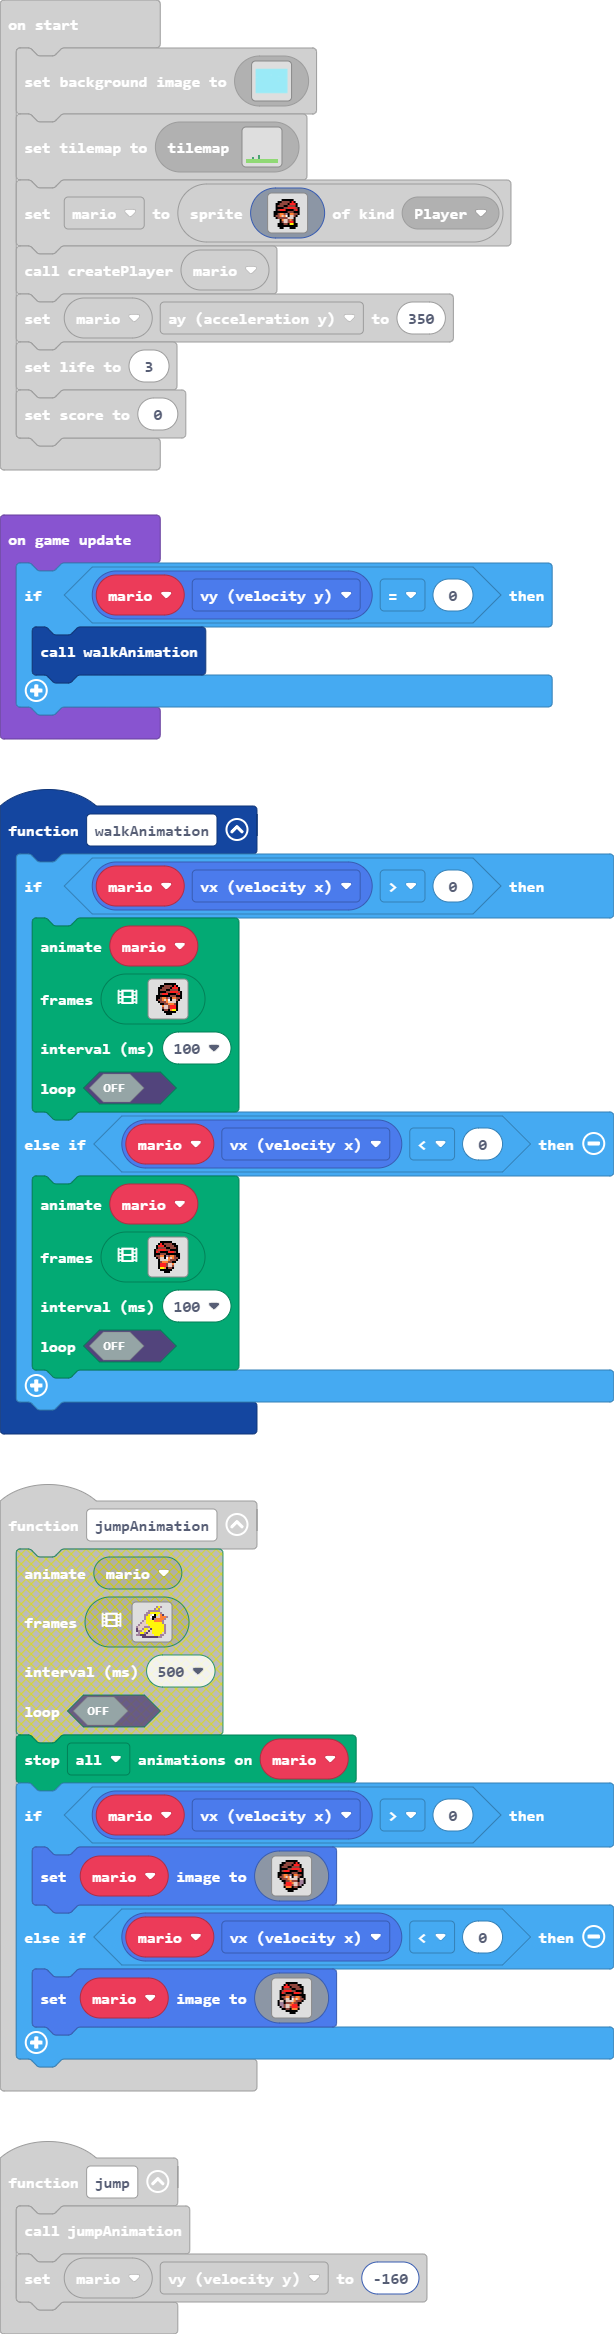
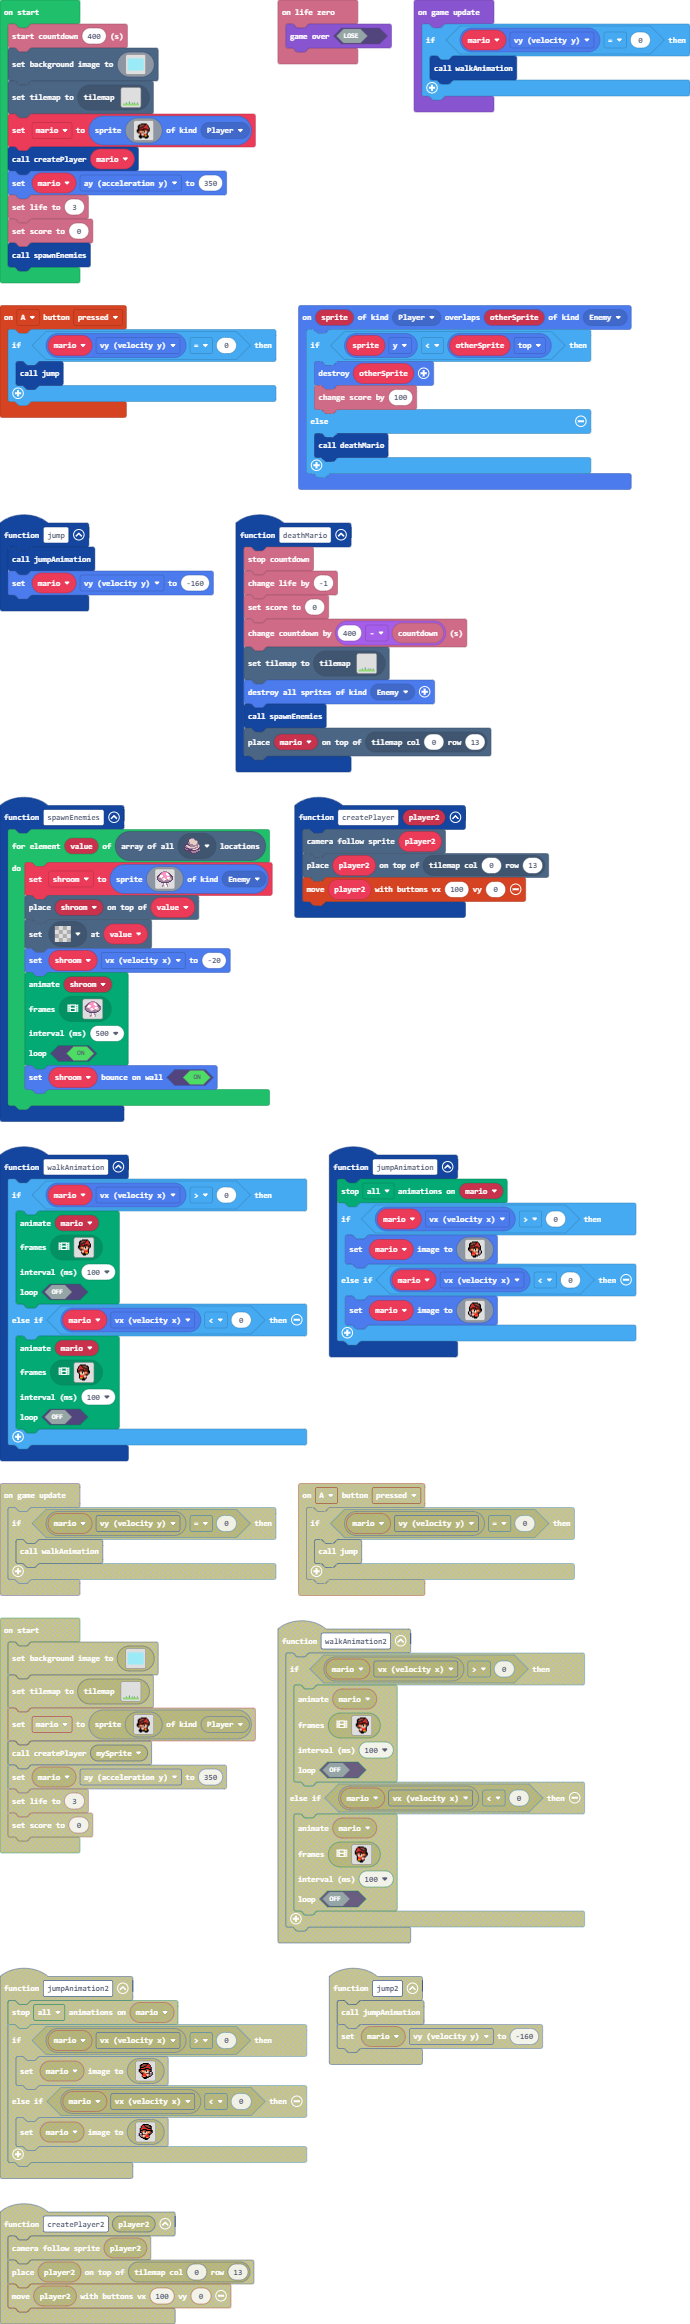
enemy spawn & death

diff --git a/tilemap.g.ts b/tilemap.g.ts
@@ -5,25 +5,6 @@ namespace myTiles {
 
     helpers._registerFactory("tilemap", function(name: string) {
         switch(helpers.stringTrim(name)) {
-            case "level1":
-            case "level1":return tiles.createTilemap(hex`1000100000000000000000000000000000000000000000000000000000000000000000000000000000000000000000000000000000000000000000000000000000000000000000000000000000000000000000000000000000000000000000000000000000000000000000000000000000000000000000000000000000000000000000000000000000000000000000000000000000000000000000000000000000000000000000000000000000000000000000000000000000000000000000000000000000000000000002000000000000000000000000020000020000000000000000000101010101010101010101010101010101010101010101010101010101010101`, img`
-. . . . . . . . . . . . . . . . 
-. . . . . . . . . . . . . . . . 
-. . . . . . . . . . . . . . . . 
-. . . . . . . . . . . . . . . . 
-. . . . . . . . . . . . . . . . 
-. . . . . . . . . . . . . . . . 
-. . . . . . . . . . . . . . . . 
-. . . . . . . . . . . . . . . . 
-. . . . . . . . . . . . . . . . 
-. . . . . . . . . . . . . . . . 
-. . . . . . . . . . . . . . . . 
-. . . . . . . . . . . . . . . . 
-. . . . . . 2 . . . . . . . . . 
-. . . 2 . . 2 . . . . . . . . . 
-2 2 2 2 2 2 2 2 2 2 2 2 2 2 2 2 
-. . . . . . . . . . . . . . . . 
-`, [myTiles.transparency16,sprites.castle.tileGrass2,sprites.builtin.forestTiles0], TileScale.Sixteen);
             case "level2":
             case "level2":return tiles.createTilemap(hex`1000100000000000000000000000000000000000000000000000000000000000000000000000000000000000000000000000000000000000000000000000000000000000000000000000000000000000000000000000000000000000000000000000000000000000000000000000000000000000000000000000000000000000000000000000000000000000000000000000000000000000000000000000000000000000000000000000000000000000000000000000000000000000000000000000000000000000000000000000000000000000000000000000000000000000000000000000000000000000000000000000000000000000000000000000000000000000`, img`
 . . . . . . . . . . . . . . . . 
@@ -45,6 +26,44 @@ namespace myTiles {
 `, [myTiles.transparency16], TileScale.Sixteen);
             case "level3":
             case "level3":return tiles.createTilemap(hex`1000100000000000000000000000000000000000000000000000000000000000000000000000000000000000000000000000000000000000000000000000000000000000000000000000000000000000000000000000000000000000000000000000000000000000000000000000000000000000000000000000000000000000000000000000000000000000000000000000000000000000000000000000000000000000000000000000000000000000000000000000000000000000000000000000000000000000000000000000000000000000000000000000000000000000000000000000000000000000000000000000000000000000000000000000000000000000`, img`
+. . . . . . . . . . . . . . . . 
+. . . . . . . . . . . . . . . . 
+. . . . . . . . . . . . . . . . 
+. . . . . . . . . . . . . . . . 
+. . . . . . . . . . . . . . . . 
+. . . . . . . . . . . . . . . . 
+. . . . . . . . . . . . . . . . 
+. . . . . . . . . . . . . . . . 
+. . . . . . . . . . . . . . . . 
+. . . . . . . . . . . . . . . . 
+. . . . . . . . . . . . . . . . 
+. . . . . . . . . . . . . . . . 
+. . . . . . . . . . . . . . . . 
+. . . . . . . . . . . . . . . . 
+. . . . . . . . . . . . . . . . 
+. . . . . . . . . . . . . . . . 
+`, [myTiles.transparency16], TileScale.Sixteen);
+            case "level1":
+            case "level1":return tiles.createTilemap(hex`1000100000000000000000000000000000000000000000000000000000000000000000000000000000000000000000000000000000000000000000000000000000000000000000000000000000000000000000000000000000000000000000000000000000000000000000000000000000000000000000000000000000000000000000000000000000000000000000000000000000000000000000000000000000000000000000000000000000000000000000000000000000000000000000000000000000000000000002000000000000000000000000020000020000030002000003000101010101010101010101010101010101010101010101010101010101010101`, img`
+. . . . . . . . . . . . . . . . 
+. . . . . . . . . . . . . . . . 
+. . . . . . . . . . . . . . . . 
+. . . . . . . . . . . . . . . . 
+. . . . . . . . . . . . . . . . 
+. . . . . . . . . . . . . . . . 
+. . . . . . . . . . . . . . . . 
+. . . . . . . . . . . . . . . . 
+. . . . . . . . . . . . . . . . 
+. . . . . . . . . . . . . . . . 
+. . . . . . . . . . . . . . . . 
+. . . . . . . . . . . . . . . . 
+. . . . . . 2 . . . . . . . . . 
+. . . 2 . . 2 . . . . 2 . . . . 
+2 2 2 2 2 2 2 2 2 2 2 2 2 2 2 2 
+. . . . . . . . . . . . . . . . 
+`, [myTiles.transparency16,sprites.castle.tileGrass2,sprites.builtin.forestTiles0,sprites.castle.rock0], TileScale.Sixteen);
+            case "level4":
+            case "level4":return tiles.createTilemap(hex`1000100000000000000000000000000000000000000000000000000000000000000000000000000000000000000000000000000000000000000000000000000000000000000000000000000000000000000000000000000000000000000000000000000000000000000000000000000000000000000000000000000000000000000000000000000000000000000000000000000000000000000000000000000000000000000000000000000000000000000000000000000000000000000000000000000000000000000000000000000000000000000000000000000000000000000000000000000000000000000000000000000000000000000000000000000000000000`, img`
 . . . . . . . . . . . . . . . . 
 . . . . . . . . . . . . . . . . 
 . . . . . . . . . . . . . . . . 

diff --git a/main.ts b/main.ts
@@ -45,6 +45,16 @@ controller.A.onEvent(ControllerButtonEvent.Pressed, function () {
         jump()
     }
 })
+function deathMario () {
+    info.stopCountdown()
+    info.changeLifeBy(-1)
+    info.setScore(0)
+    info.changeCountdownBy(400 - info.countdown())
+    tiles.setCurrentTilemap(tilemap`level1`)
+    sprites.destroyAllSpritesOfKind(SpriteKind.Enemy)
+    spawnEnemies()
+    tiles.placeOnTile(mario, tiles.getTileLocation(0, 13))
+}
 function walkAnimation () {
     if (mario.vx > 0) {
         animation.runImageAnimation(
@@ -198,6 +208,75 @@ function walkAnimation () {
         )
     }
 }
+function spawnEnemies () {
+    for (let value of tiles.getTilesByType(sprites.castle.rock0)) {
+        shroom = sprites.create(img`
+            . . . . . . b b b b . . . . . . 
+            . . . . b b 3 3 3 3 b b . . . . 
+            . . . c b 3 3 3 3 1 1 b c . . . 
+            . . c b 3 3 3 3 3 1 1 1 b c . . 
+            . c c 1 1 1 3 3 3 3 1 1 3 c c . 
+            c c d 1 1 1 3 3 3 3 3 3 3 b c c 
+            c b d d 1 3 3 3 3 3 1 1 1 b b c 
+            c b b b 3 3 1 1 3 3 1 1 d d b c 
+            c b b b b d d 1 1 3 b d d d b c 
+            . c b b b b d d b b b b b b c . 
+            . . c c b b b b b b b b c c . . 
+            . . . . c c c c c c c c . . . . 
+            . . . . . . b 1 1 b . . . . . . 
+            . . . . . . b 1 1 b b . . . . . 
+            . . . . . b b d 1 1 b . . . . . 
+            . . . . . b d d 1 1 b . . . . . 
+            `, SpriteKind.Enemy)
+        tiles.placeOnTile(shroom, value)
+        tiles.setTileAt(value, assets.tile`transparency16`)
+        shroom.vx = -20
+        animation.runImageAnimation(
+        shroom,
+        [img`
+            . . . . . . b b b b . . . . . . 
+            . . . . b b 3 3 3 3 b b . . . . 
+            . . . c b 3 3 3 3 1 1 b c . . . 
+            . . c b 3 3 3 3 3 1 1 1 b c . . 
+            . c c 1 1 1 3 3 3 3 1 1 3 c c . 
+            c c d 1 1 1 3 3 3 3 3 3 3 b c c 
+            c b d d 1 3 3 3 3 3 1 1 1 b b c 
+            c b b b 3 3 1 1 3 3 1 1 d d b c 
+            c b b b b d d 1 1 3 b d d d b c 
+            . c b b b b d d b b b b b b c . 
+            . . c c b b b b b b b b c c . . 
+            . . . . c c c c c c c c . . . . 
+            . . . . . . b 1 1 b . . . . . . 
+            . . . . . . b 1 1 b b . . . . . 
+            . . . . . b b d 1 1 b . . . . . 
+            . . . . . b d d 1 1 b . . . . . 
+            `,img`
+            . . . . . . . . . . . . . . . . 
+            . . . . . . . . . . . . . . . . 
+            . . . . . . . . . . . . . . . . 
+            . . . . . . b b b b . . . . . . 
+            . . . . b b 3 3 3 3 b b . . . . 
+            . . . c b 3 3 3 3 1 1 b c . . . 
+            . . c b 3 3 3 3 3 1 1 1 b c . . 
+            . c b 1 1 1 3 3 3 3 1 1 3 c c . 
+            c b d 1 1 1 3 3 3 3 3 3 3 b b c 
+            c b b d 1 3 3 3 3 3 1 1 1 b b c 
+            c b b b 3 3 1 1 3 3 1 1 d d b c 
+            . c b b b d d 1 1 3 b d d d c . 
+            . . c c b b d d b b b b c c . . 
+            . . . . c c c c c c c c . . . . 
+            . . . . . b b d 1 1 b . . . . . 
+            . . . . . b d d 1 1 b . . . . . 
+            `],
+        500,
+        true
+        )
+        shroom.setBounceOnWall(true)
+    }
+}
+info.onLifeZero(function () {
+    game.gameOver(false)
+})
 function jump () {
     jumpAnimation()
     mario.vy = -160
@@ -207,7 +286,17 @@ function createPlayer (player2: Sprite) {
     tiles.placeOnTile(player2, tiles.getTileLocation(0, 13))
     controller.moveSprite(player2, 100, 0)
 }
+sprites.onOverlap(SpriteKind.Player, SpriteKind.Enemy, function (sprite, otherSprite) {
+    if (sprite.y < otherSprite.top) {
+        sprites.destroy(otherSprite)
+        info.changeScoreBy(100)
+    } else {
+        deathMario()
+    }
+})
+let shroom: Sprite = null
 let mario: Sprite = null
+info.startCountdown(400)
 scene.setBackgroundImage(img`
     9999999999999999999999999999999999999999999999999999999999999999999999999999999999999999999999999999999999999999999999999999999999999999999999999999999999999999
     9999999999999999999999999999999999999999999999999999999999999999999999999999999999999999999999999999999999999999999999999999999999999999999999999999999999999999
@@ -353,6 +442,7 @@ createPlayer(mario)
 mario.ay = 350
 info.setLife(3)
 info.setScore(0)
+spawnEnemies()
 game.onUpdate(function () {
     if (mario.vy == 0) {
         walkAnimation()

diff --git a/main.py b/main.py
@@ -44,6 +44,17 @@ def on_a_pressed():
         jump()
 controller.A.on_event(ControllerButtonEvent.PRESSED, on_a_pressed)
 
+def deathMario():
+    info.stop_countdown()
+    info.change_life_by(-1)
+    info.set_score(0)
+    info.change_countdown_by(400 - info.countdown())
+    tiles.set_current_tilemap(tilemap("""
+        level1
+    """))
+    sprites.destroy_all_sprites_of_kind(SpriteKind.enemy)
+    spawnEnemies()
+    tiles.place_on_tile(mario, tiles.get_tile_location(0, 13))
 def walkAnimation():
     if mario.vx > 0:
         animation.run_image_animation(mario,
@@ -197,6 +208,78 @@ def walkAnimation():
                 """)],
             100,
             False)
+def spawnEnemies():
+    global shroom
+    for value in tiles.get_tiles_by_type(sprites.castle.rock0):
+        shroom = sprites.create(img("""
+                . . . . . . b b b b . . . . . . 
+                            . . . . b b 3 3 3 3 b b . . . . 
+                            . . . c b 3 3 3 3 1 1 b c . . . 
+                            . . c b 3 3 3 3 3 1 1 1 b c . . 
+                            . c c 1 1 1 3 3 3 3 1 1 3 c c . 
+                            c c d 1 1 1 3 3 3 3 3 3 3 b c c 
+                            c b d d 1 3 3 3 3 3 1 1 1 b b c 
+                            c b b b 3 3 1 1 3 3 1 1 d d b c 
+                            c b b b b d d 1 1 3 b d d d b c 
+                            . c b b b b d d b b b b b b c . 
+                            . . c c b b b b b b b b c c . . 
+                            . . . . c c c c c c c c . . . . 
+                            . . . . . . b 1 1 b . . . . . . 
+                            . . . . . . b 1 1 b b . . . . . 
+                            . . . . . b b d 1 1 b . . . . . 
+                            . . . . . b d d 1 1 b . . . . .
+            """),
+            SpriteKind.enemy)
+        tiles.place_on_tile(shroom, value)
+        tiles.set_tile_at(value, assets.tile("""
+            transparency16
+        """))
+        shroom.vx = -20
+        animation.run_image_animation(shroom,
+            [img("""
+                    . . . . . . b b b b . . . . . . 
+                                . . . . b b 3 3 3 3 b b . . . . 
+                                . . . c b 3 3 3 3 1 1 b c . . . 
+                                . . c b 3 3 3 3 3 1 1 1 b c . . 
+                                . c c 1 1 1 3 3 3 3 1 1 3 c c . 
+                                c c d 1 1 1 3 3 3 3 3 3 3 b c c 
+                                c b d d 1 3 3 3 3 3 1 1 1 b b c 
+                                c b b b 3 3 1 1 3 3 1 1 d d b c 
+                                c b b b b d d 1 1 3 b d d d b c 
+                                . c b b b b d d b b b b b b c . 
+                                . . c c b b b b b b b b c c . . 
+                                . . . . c c c c c c c c . . . . 
+                                . . . . . . b 1 1 b . . . . . . 
+                                . . . . . . b 1 1 b b . . . . . 
+                                . . . . . b b d 1 1 b . . . . . 
+                                . . . . . b d d 1 1 b . . . . .
+                """),
+                img("""
+                    . . . . . . . . . . . . . . . . 
+                                . . . . . . . . . . . . . . . . 
+                                . . . . . . . . . . . . . . . . 
+                                . . . . . . b b b b . . . . . . 
+                                . . . . b b 3 3 3 3 b b . . . . 
+                                . . . c b 3 3 3 3 1 1 b c . . . 
+                                . . c b 3 3 3 3 3 1 1 1 b c . . 
+                                . c b 1 1 1 3 3 3 3 1 1 3 c c . 
+                                c b d 1 1 1 3 3 3 3 3 3 3 b b c 
+                                c b b d 1 3 3 3 3 3 1 1 1 b b c 
+                                c b b b 3 3 1 1 3 3 1 1 d d b c 
+                                . c b b b d d 1 1 3 b d d d c . 
+                                . . c c b b d d b b b b c c . . 
+                                . . . . c c c c c c c c . . . . 
+                                . . . . . b b d 1 1 b . . . . . 
+                                . . . . . b d d 1 1 b . . . . .
+                """)],
+            500,
+            True)
+        shroom.set_bounce_on_wall(True)
+
+def on_life_zero():
+    game.game_over(False)
+info.on_life_zero(on_life_zero)
+
 def jump():
     jumpAnimation()
     mario.vy = -160
@@ -204,7 +287,18 @@ def createPlayer(player2: Sprite):
     scene.camera_follow_sprite(player2)
     tiles.place_on_tile(player2, tiles.get_tile_location(0, 13))
     controller.move_sprite(player2, 100, 0)
+
+def on_on_overlap(sprite, otherSprite):
+    if sprite.y < otherSprite.top:
+        sprites.destroy(otherSprite)
+        info.change_score_by(100)
+    else:
+        deathMario()
+sprites.on_overlap(SpriteKind.player, SpriteKind.enemy, on_on_overlap)
+
+shroom: Sprite = None
 mario: Sprite = None
+info.start_countdown(400)
 scene.set_background_image(img("""
     9999999999999999999999999999999999999999999999999999999999999999999999999999999999999999999999999999999999999999999999999999999999999999999999999999999999999999
         9999999999999999999999999999999999999999999999999999999999999999999999999999999999999999999999999999999999999999999999999999999999999999999999999999999999999999
@@ -353,7 +447,9 @@ createPlayer(mario)
 mario.ay = 350
 info.set_life(3)
 info.set_score(0)
+spawnEnemies()
 
 def on_on_update():
-    walkAnimation()
+    if mario.vy == 0:
+        walkAnimation()
 game.on_update(on_on_update)
